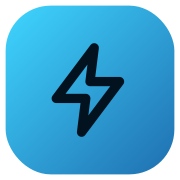
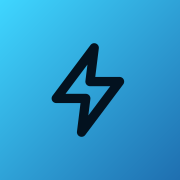
Add files via upload

Changed region(s): [[0.0, 0.0, 1.0, 1.0]]

diff --git a/ie-SRS-ADMIN.html b/ie-SRS-ADMIN.html
@@ -6,6 +6,14 @@
 <meta name="mobile-web-app-capable" content="yes">
 <meta name="apple-mobile-web-app-capable" content="yes">
 <title>ie-SRS // SYSTEM ADMIN PLATFORM — ie-SRS // SONAR | Reconnaissance | Simulation</title>
+<link rel="icon" href="favicon.ico" sizes="any">
+<link rel="icon" type="image/svg+xml" href="favicon.svg">
+<link rel="icon" type="image/png" sizes="32x32" href="favicon-32x32.png">
+<link rel="icon" type="image/png" sizes="16x16" href="favicon-16x16.png">
+<link rel="apple-touch-icon" href="apple-touch-icon.png?v=20260908">
+<link rel="manifest" href="site.webmanifest">
+<meta name="apple-mobile-web-app-title" content="ie-SRS ADM">
+<meta name="theme-color" content="#0e1824">
 <link rel="preconnect" href="https://fonts.googleapis.com">
 <link href="https://fonts.googleapis.com/css2?family=Share+Tech+Mono&family=Orbitron:wght@400;600;700;900&family=Rajdhani:wght@700&display=swap" rel="stylesheet">
 <style>

diff --git a/index.html b/index.html
@@ -7,7 +7,12 @@
 <meta name="apple-mobile-web-app-status-bar-style" content="black-translucent">
 <meta name="theme-color" content="#0c1a2c">
 <title>ie-SRS CMDR</title>
-<link rel="icon" href="../favicon.ico">
+<link rel="icon" href="favicon.ico" sizes="any">
+<link rel="icon" type="image/svg+xml" href="favicon.svg">
+<link rel="icon" type="image/png" sizes="32x32" href="favicon-32x32.png">
+<link rel="icon" type="image/png" sizes="16x16" href="favicon-16x16.png">
+<link rel="apple-touch-icon" href="apple-touch-icon.png?v=20260908">
+<meta name="apple-mobile-web-app-title" content="CMDR">
 <style>
 :root{
   --bg:#07111f; --bg2:#0c1a2c; --card:rgba(255,255,255,.07); --card2:rgba(255,255,255,.11); --line:rgba(255,255,255,.12);
